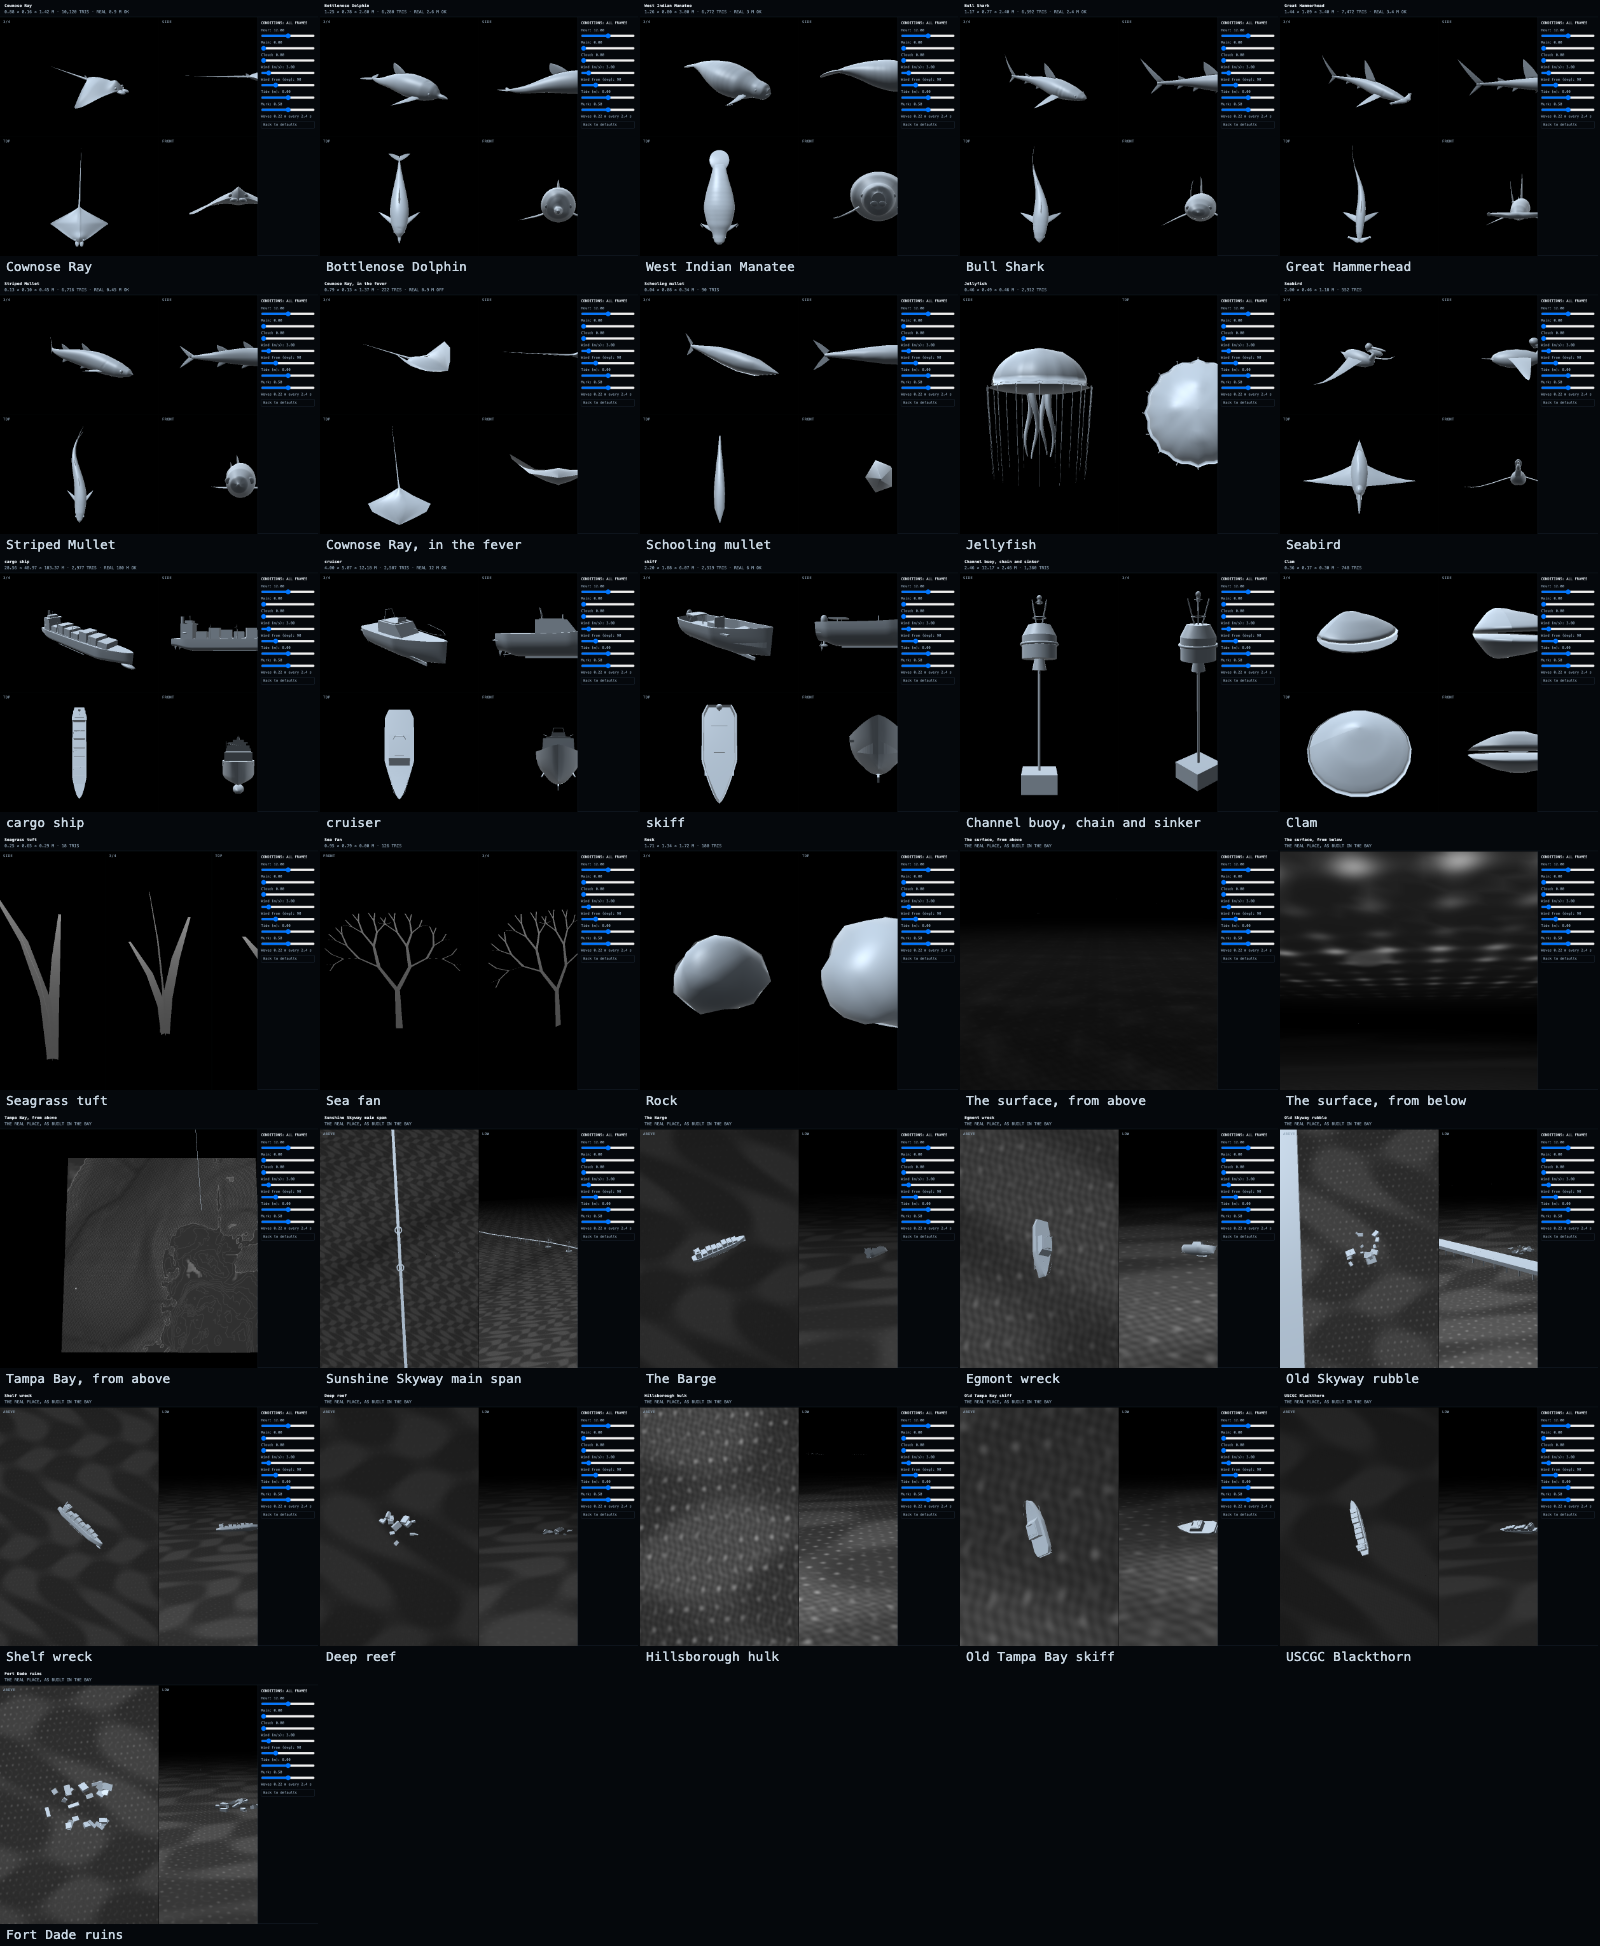
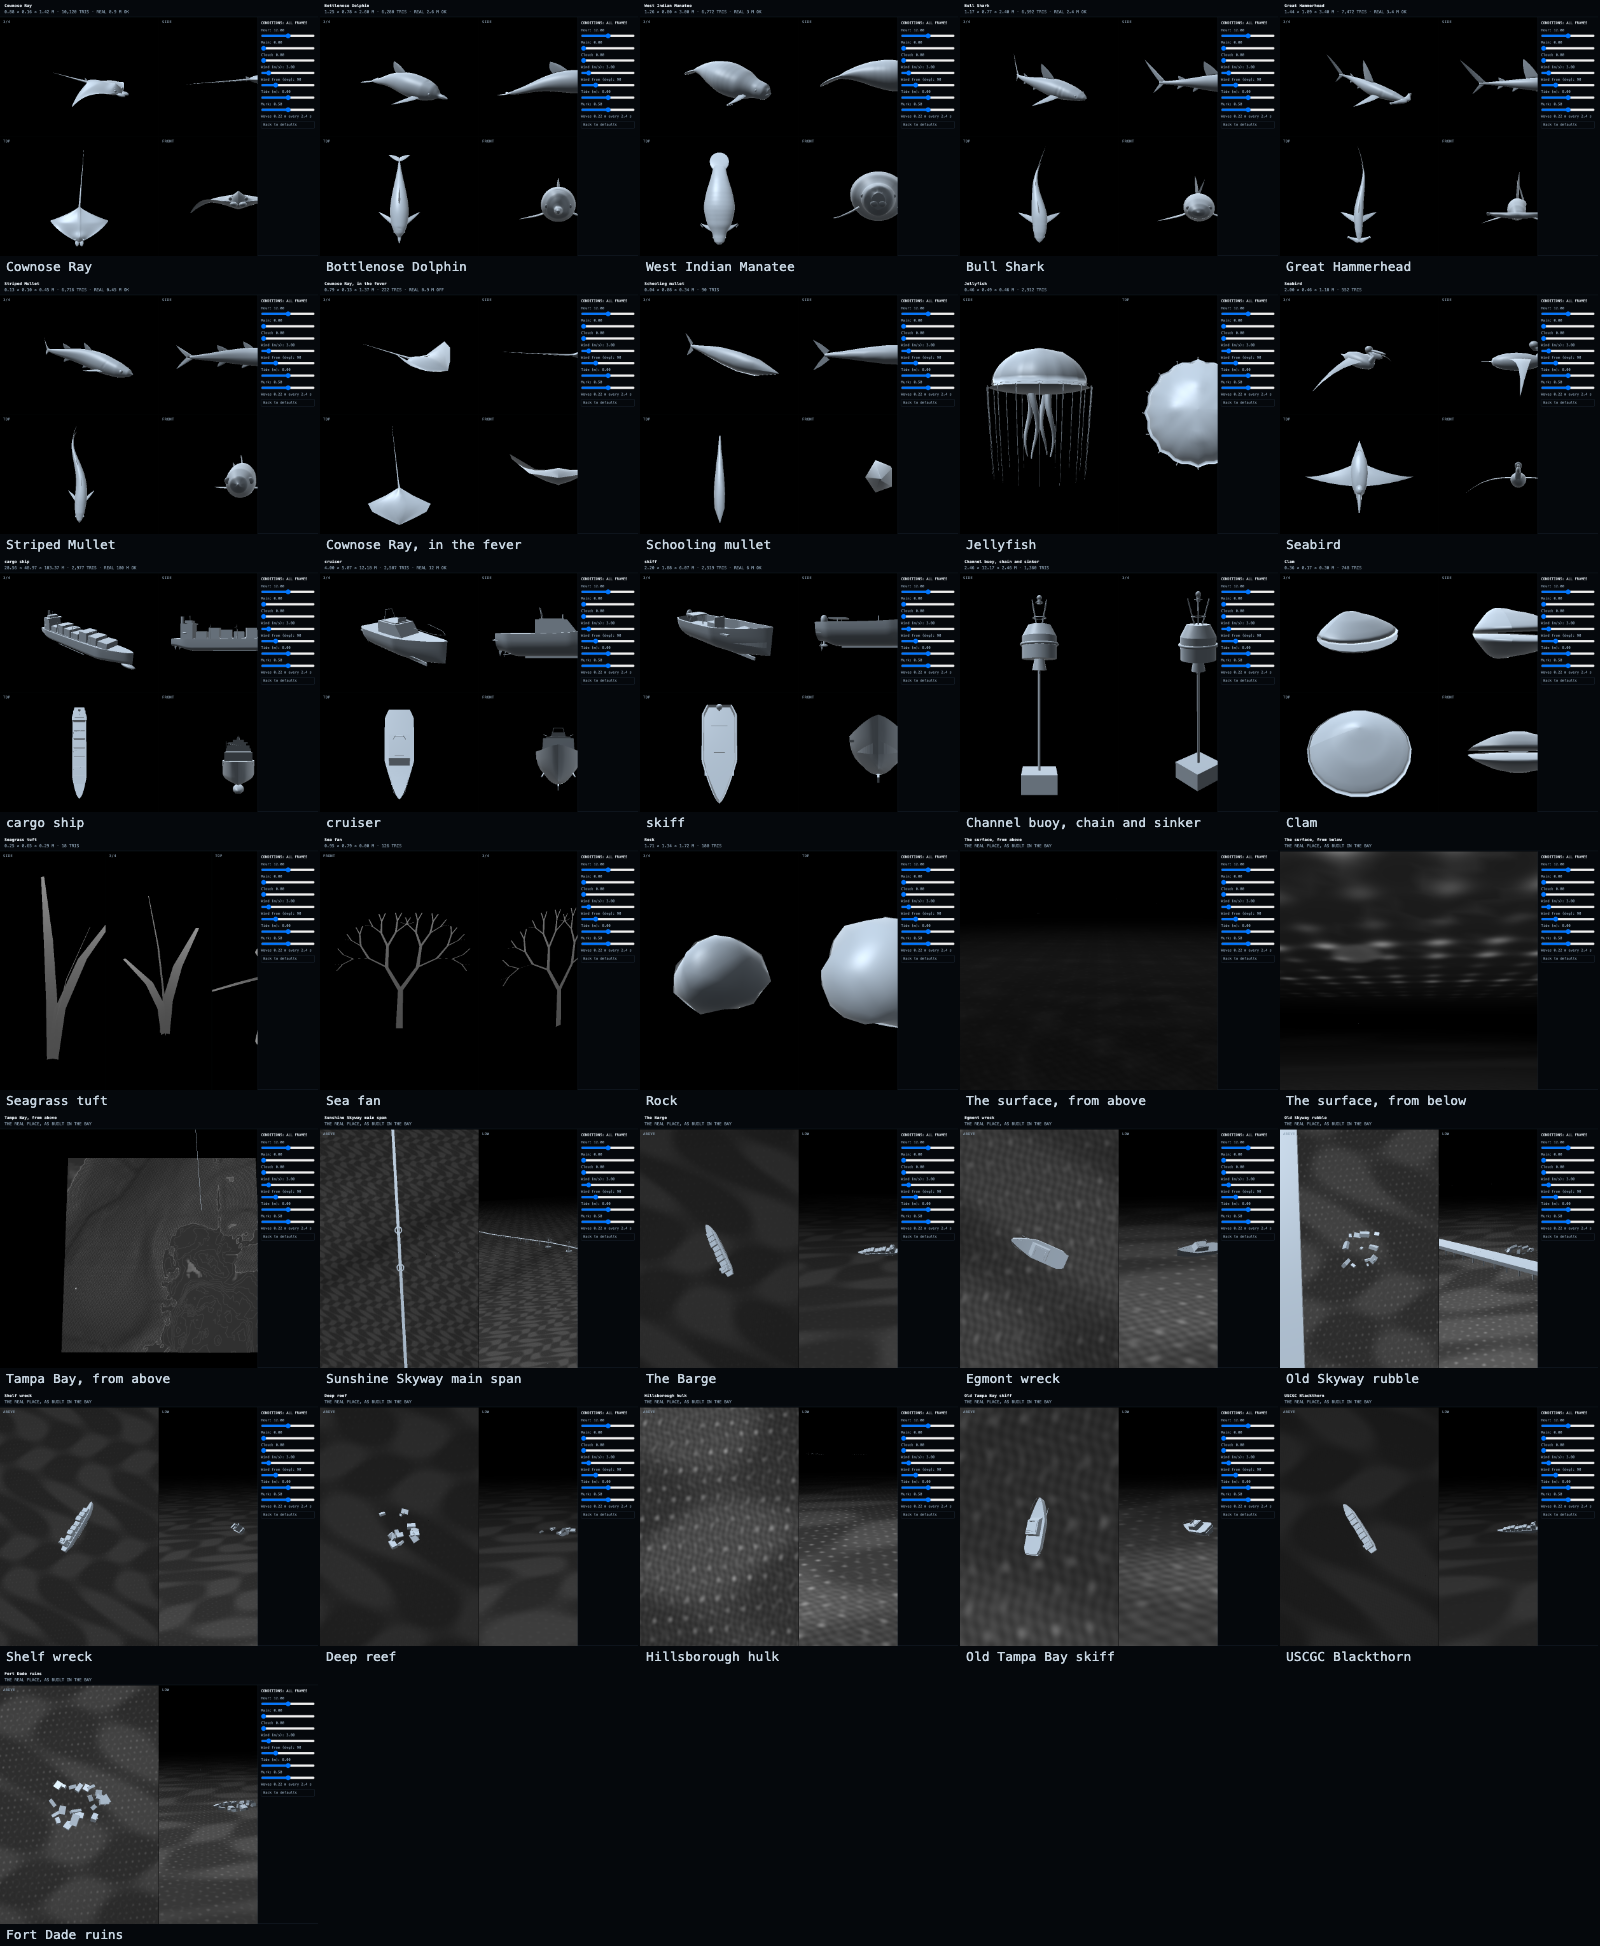
fix: schools no longer look like a field of stars, and thin fins stay on the body
Anything smaller than a dot was drawn fully lit or not at all, so far fish became bright white specks and thin fins, jaws and beaks fell off the body. Every dot now takes partial coverage. A frightened school opens less, and takes a rounded shape instead of a box.

fix: dim words no longer punch black boxes in bright water, and a back in full sun keeps its shape

The panel now only ever adds light, and creature highlights roll off before pure white.

test: check the screen glass at the size you actually see things

New checks cover words over bright water, how white a school gets, and whether each animal holds together at game size. Each was confirmed to fail with its bug put back.

diff --git a/src/render/display.js b/src/render/display.js
@@ -24,7 +24,7 @@ export const camera = new THREE.PerspectiveCamera(60, innerWidth / innerHeight, 
 
 export let pitchCss = MOBILE ? 3 : 4;
 export const setDotPitch = px => { pitchCss = px; resize(); };   // the model page shows four views at once, so it needs finer dots than the game
-export const lowRT = new THREE.WebGLRenderTarget(16, 16, { minFilter: THREE.NearestFilter, magFilter: THREE.NearestFilter, depthBuffer: true });
+export const lowRT = new THREE.WebGLRenderTarget(16, 16, { minFilter: THREE.NearestFilter, magFilter: THREE.NearestFilter, depthBuffer: true, samples: 4 });   // a thing smaller than a dot lights it partly, rather than all or not at all: fins stay joined, far fish stay dim
 // the cell pass: one fragment per dot, at grid resolution. contrast, depth and the OEL drive levels are the same for every
 // pixel of a dot, so they are worked out here once instead of at every screen pixel.
 export const cellRT = new THREE.WebGLRenderTarget(16, 16, { minFilter: THREE.NearestFilter, magFilter: THREE.NearestFilter, depthBuffer: false });
@@ -67,7 +67,7 @@ export const DotShader = {
       vec2 vc = gl_FragCoord.xy / (uGrid * uPitch) - 0.5; float vig = (1.0 - 0.6 * smoothstep(0.2, 0.75, length(vc))) * (1.0 - uTunnel * smoothstep(0.18, 0.5, length(vc))) * (1.0 - uClose * smoothstep(0.22, 0.62, length(vc)));   // uClose: hunted, or out of air
       vec3 outc = (col * (1.0 - uDim) + unlit) * vig;
       float ptx = texture2D(tText, uv).r;   // the panel layer: every word and symbol is lit dots on the same matrix
-      if (ptx > 0.0) { float rt = 0.5 + 0.42 * ptx, mt = 1.0 - smoothstep(rt - 0.3, rt + 0.05, d); outc = mix(outc, vec3(0.80, 0.90, 1.0) * (0.3 + 0.7 * ptx), mt); }
+      if (ptx > 0.0) { float rt = 0.5 + 0.42 * ptx, mt = 1.0 - smoothstep(rt - 0.3, rt + 0.05, d); outc = max(outc, vec3(0.80, 0.90, 1.0) * (0.3 + 0.7 * ptx) * mt); }   // light only ever adds: a dim word over bright water must never punch a hole in it
       gl_FragColor = vec4(outc, 1.0);
     }`,
 };

diff --git a/src/actors/life.js b/src/actors/life.js
@@ -4,6 +4,7 @@ import { bump, join, tube } from '../lib/shapes.js?v=__BUILD__';
 import { events } from '../core/events.js?v=__BUILD__';
 import { rand } from '../core/random.js?v=__BUILD__';
 import { placeInstance } from '../core/space.js?v=__BUILD__';
+import { TUNE } from '../core/tune.js?v=__BUILD__';
 import { scene } from '../render/display.js?v=__BUILD__';
 import { emitBubble } from '../render/effects.js?v=__BUILD__';
 import { creatureMat } from '../render/materials.js?v=__BUILD__';
@@ -84,10 +85,10 @@ export function steerToSchool(s, tx, tz) { const want = Math.atan2(-(tx - s.c.x)
 export const fishGeo = schoolFishGeometry();
 export const SCHOOLS = 7, FISH_PER = 55;
 events.addEventListener('predator-near', () => { for (const s of schools) s.panic = 3; });
-export const fishMesh = new THREE.InstancedMesh(fishGeo, creatureMat({ glow: 0.8 }), SCHOOLS * FISH_PER);
+export const fishMesh = new THREE.InstancedMesh(fishGeo, creatureMat({ glow: TUNE.school.glow }), SCHOOLS * FISH_PER);
 fishMesh.frustumCulled = false; scene.add(fishMesh);
 export const schools = Array.from({ length: SCHOOLS }, () => ({ c: new THREE.Vector3(), dir: rand() * 6.28, turn: 0, v: 0.6 + rand() * 0.6, spread: 2.5 + rand() * 3, base: 0, panic: 0,
-  fish: Array.from({ length: FISH_PER }, () => ({ off: new THREE.Vector3(rand() - .5, (rand() - .5) * 0.5, rand() - .5), ph: rand() * 6.28, w: 0.4 + rand() * 0.5, alive: true })) }));
+  fish: Array.from({ length: FISH_PER }, () => ({ off: new THREE.Vector3(rand() - .5, rand() - .5, rand() - .5).normalize().multiplyScalar(0.5 * Math.cbrt(rand())).multiply(new THREE.Vector3(1, TUNE.school.flat, 1)), ph: rand() * 6.28, w: 0.4 + rand() * 0.5, alive: true })) }));
 
 // birds: pelican lines and gull wheels, above the surface
 export const BIRDS = 96;   // 90 in flocks + 6 slots for diving pelicans

diff --git a/src/core/tune.js b/src/core/tune.js
@@ -9,6 +9,7 @@ export const TUNE = {
   photo: { reach: 40, lens: [25, 90], shutter: 0.25, hint: 6 },   // photo mode: how far (m) the lens may wander from you, its field of view, the shutter's blink (s), how long the keys stay on screen (s)
   tail: { window: 0.9, gain: 0.2, decay: 0.32 },             // swimming as a shark: A and D in turn are your tail. how long you may wait between strokes (s), how much each adds, how fast it fades (per s)
   hunt: { feelSlow: 5, feelFast: 24, fastOver: 1.15, under: 0.6, reach: 1.8 },   // mullet feel pressure in the water: how far (m) if you come slowly, how far if you rush (over this much of your cruise), how much closer from beneath, and how far a strike takes them
+  school: { glow: 0.8, flat: 0.5, scatter: 1.7 },   // mullet: silver flecks rather than stars; a body flatter than it is wide; how far it opens when frightened
   camera: { near: 0.8, perSize: 1.32, perSpeed: 0.04 },        // how far behind you: a base, per metre of body, per m/s. tools/check.mjs measures how much of the screen the animal fills
   // the sound, by the science. tools/check.mjs measures the result against what the ocean does, so these are tuned from numbers, not by ear
   sound: { swell: 0.1, shrimp: 0.05, pressure: 0.32, pressureDeep: 0.22, rough: 0.14, roughHz: 70, chorus: 1, ring: 3600, ringLevel: 0.02, ringFor: 5 },   // the sea breathes at 0.1 Hz (six breaths a minute, the calmest human rate); snapping shrimp; a sub-bass pressure near a hunter, and a little in deep water; the alarm of 30-150 Hz roughness (Arnal et al. 2015) at this rate; fish at dusk

diff --git a/src/app/frame.js b/src/app/frame.js
@@ -266,7 +266,7 @@ export function stepAmbient(dt, t) {
     const pd = s.c.distanceTo(P.pos);
     { const H = TUNE.hunt, hunter = PREDATORS.has(P.sp.id), felt = (P.speed > P.sp.cruise * H.fastOver ? H.feelFast : H.feelSlow) * (P.pos.y < s.c.y - 0.5 ? H.under : 1); if (hunter ? pd < felt : pd < 6 && P.speed > P.sp.cruise * 1.2) s.panic = 3; }   // their flanks feel pressure in the water: rush and they are gone; come slowly from below and you may get close
     if (s.panic <= 0) for (const w of wild) if (w.sp && PREDATORS.has(w.sp.id) && w.pos.distanceTo(s.c) < 14) { s.panic = 3; if (pd < 50) flush(s.c.x, s.c.z, 1 - pd / 50); break; }   // sharks are silent; their prey is not
-    s.panic = Math.max(0, s.panic - dt); s.spread += ((s.panic > 0 ? s.base * 3 : s.base) - s.spread) * Math.min(1, 3 * dt);
+    s.panic = Math.max(0, s.panic - dt); s.spread += ((s.panic > 0 ? s.base * TUNE.school.scatter : s.base) - s.spread) * Math.min(1, 3 * dt);
     if (s.panic > 0) { steerToSchool(s, 2 * s.c.x - P.pos.x, 2 * s.c.z - P.pos.z); }
     s.turn += (rand() - 0.5) * dt * 2; s.turn *= 0.98; s.dir += s.turn * dt; const sv = s.v * (s.panic > 0 ? 4 : 1); s.c.x += -Math.sin(s.dir) * sv * dt; s.c.z += -Math.cos(s.dir) * sv * dt;
     const f = floorAt(s.c.x, s.c.z); if (f > -2.5) s.dir += 2 * dt; s.c.y = THREE.MathUtils.clamp(s.c.y, f + 1, -1.2);

diff --git a/src/render/materials.js b/src/render/materials.js
@@ -92,6 +92,7 @@ export const creatureFrag = GLSL_COMMON + /* glsl */`
     if (vFin > 0.5) { float edge = pow(1.0 - abs(dot(n, v)), 1.5); b = (0.05 + 0.08 * top + 0.75 * edge) * uGlow * light; }   // fins: a bright edge, a faint face   // hulls and decks are lit in the air
     if (uMode == 1.0) { float e = smoothstep(0.82, 1.0, vUv.x) + smoothstep(0.80, 0.86, vUv.y) * step(vUv.y, 0.87) + (1.0 - smoothstep(0.0, 0.07, vUv.y)); b = b * (1.0 - 0.35 * vUv.x) + 0.35 * clamp(e, 0.0, 1.0) * uGlow; }
     b = mix(b, 0.1 + 0.55 * max(dot(n, v), 0.0) + 0.35 * pow(1.0 - max(dot(n, v), 0.0), 3.0), uFill);   // the inspection light: lit from the lens, so every side of a model can be read
+    if (uRaw < 0.5 && b > 0.62) b = 0.62 + 0.38 * (1.0 - exp(-(b - 0.62) / 0.38 * 0.8));   /* a knee on the highlights, so a back in full sun keeps its shape instead of burning to white */
     gl_FragColor = outB(applyFog(min(b, 1.0), vD));
     if (uRaw > 0.5) {   // the raw view: a studio's key, fill and rim on a plain clay surface, so the shape is all you are judging
       vec3 key = normalize(vec3(0.5, 0.9, 0.6)), fill = normalize(vec3(-0.7, 0.2, 0.4)); float nl = max(dot(n, key), 0.0), fl = max(dot(n, fill), 0.0), sky = 0.5 + 0.5 * n.y, r = pow(1.0 - max(dot(n, v), 0.0), 3.0), s = pow(max(dot(n, normalize(key + v)), 0.0), 40.0);
